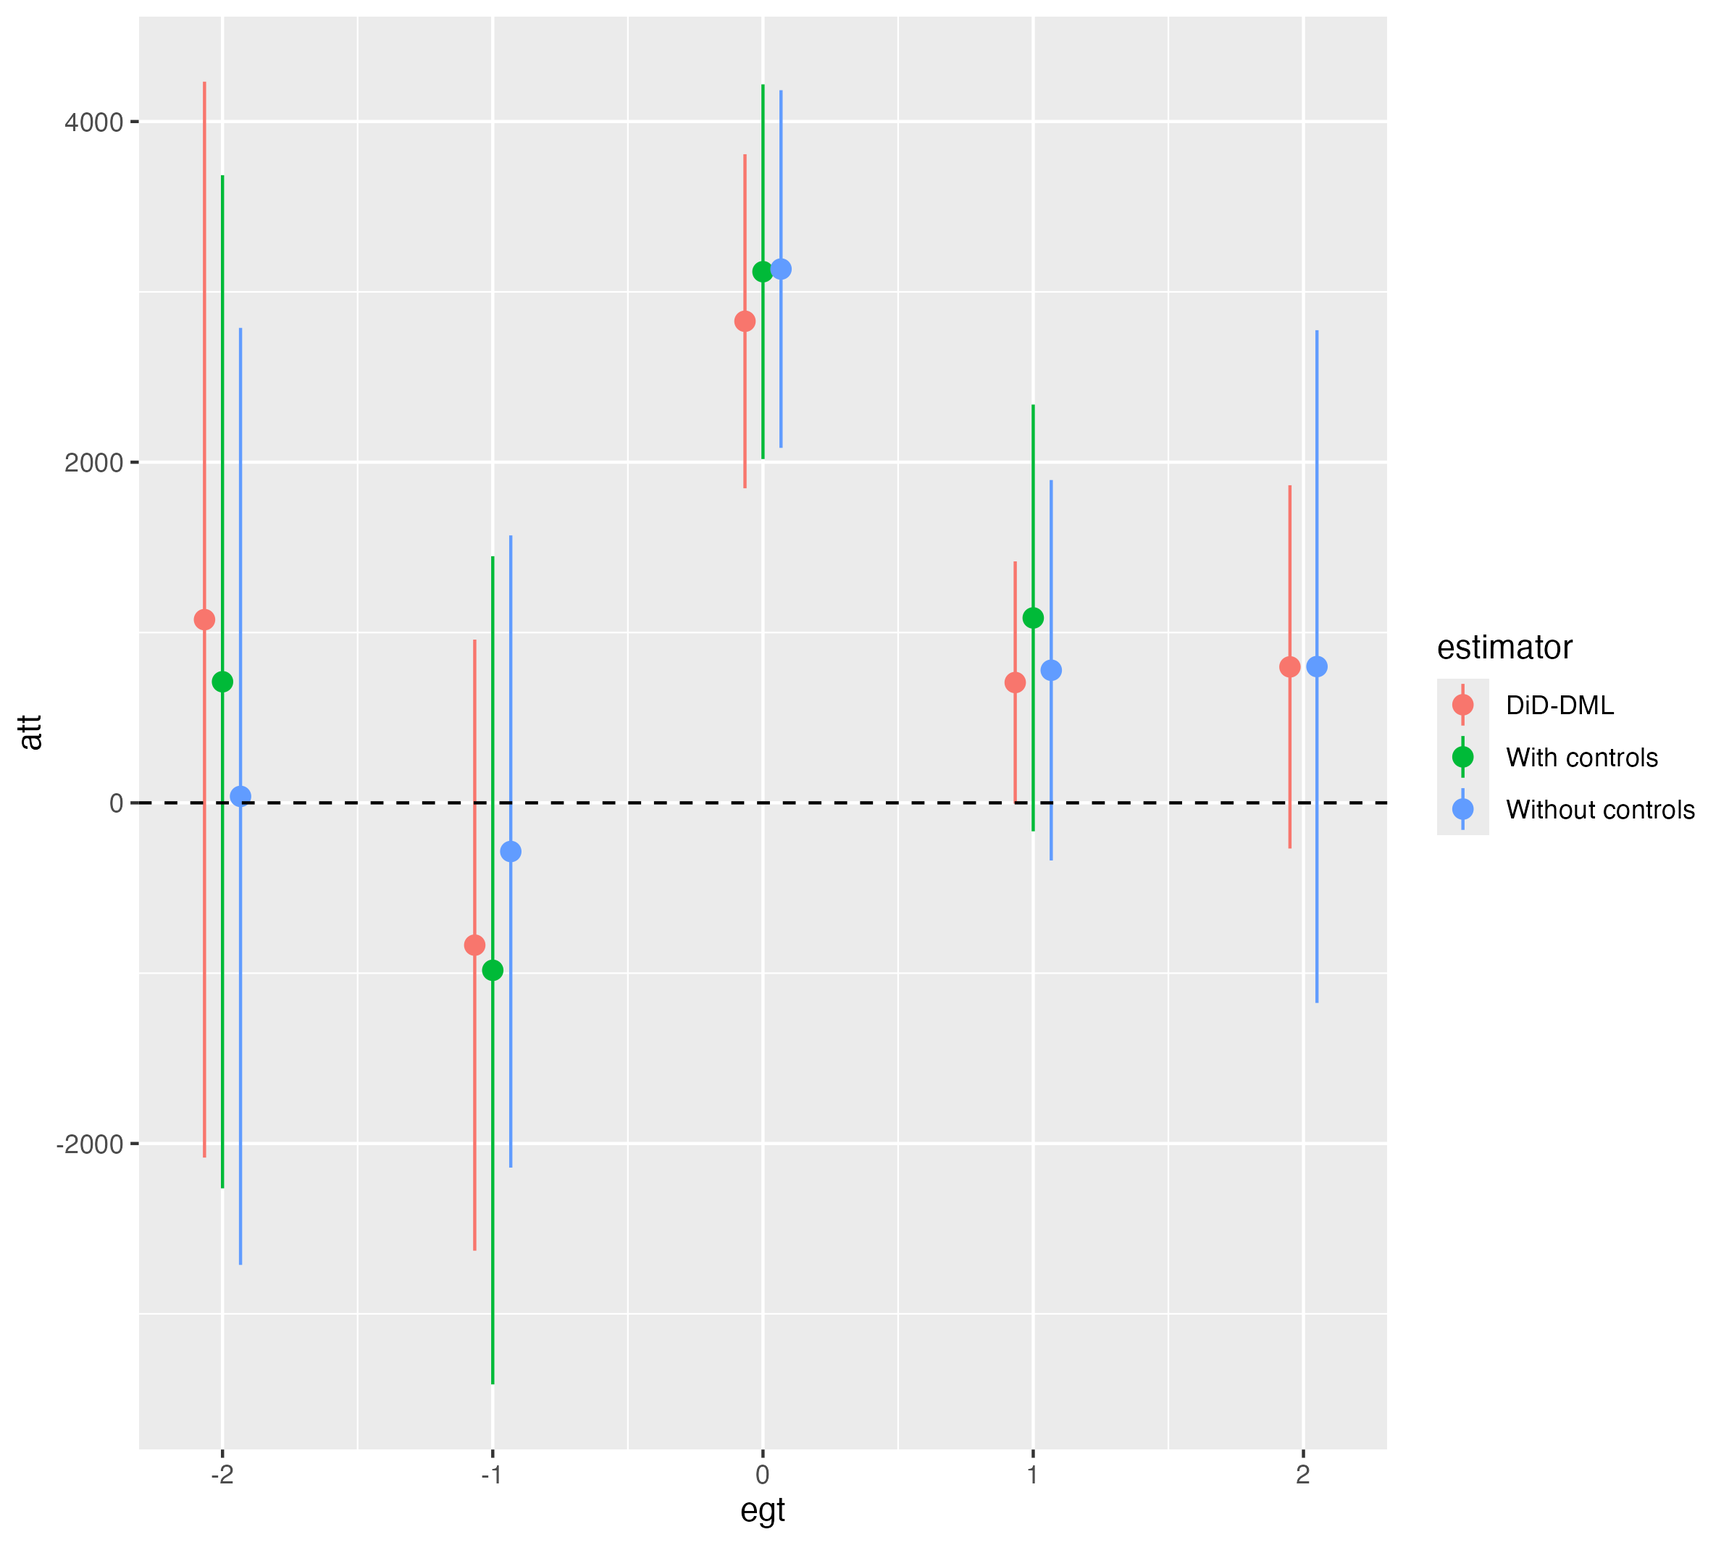
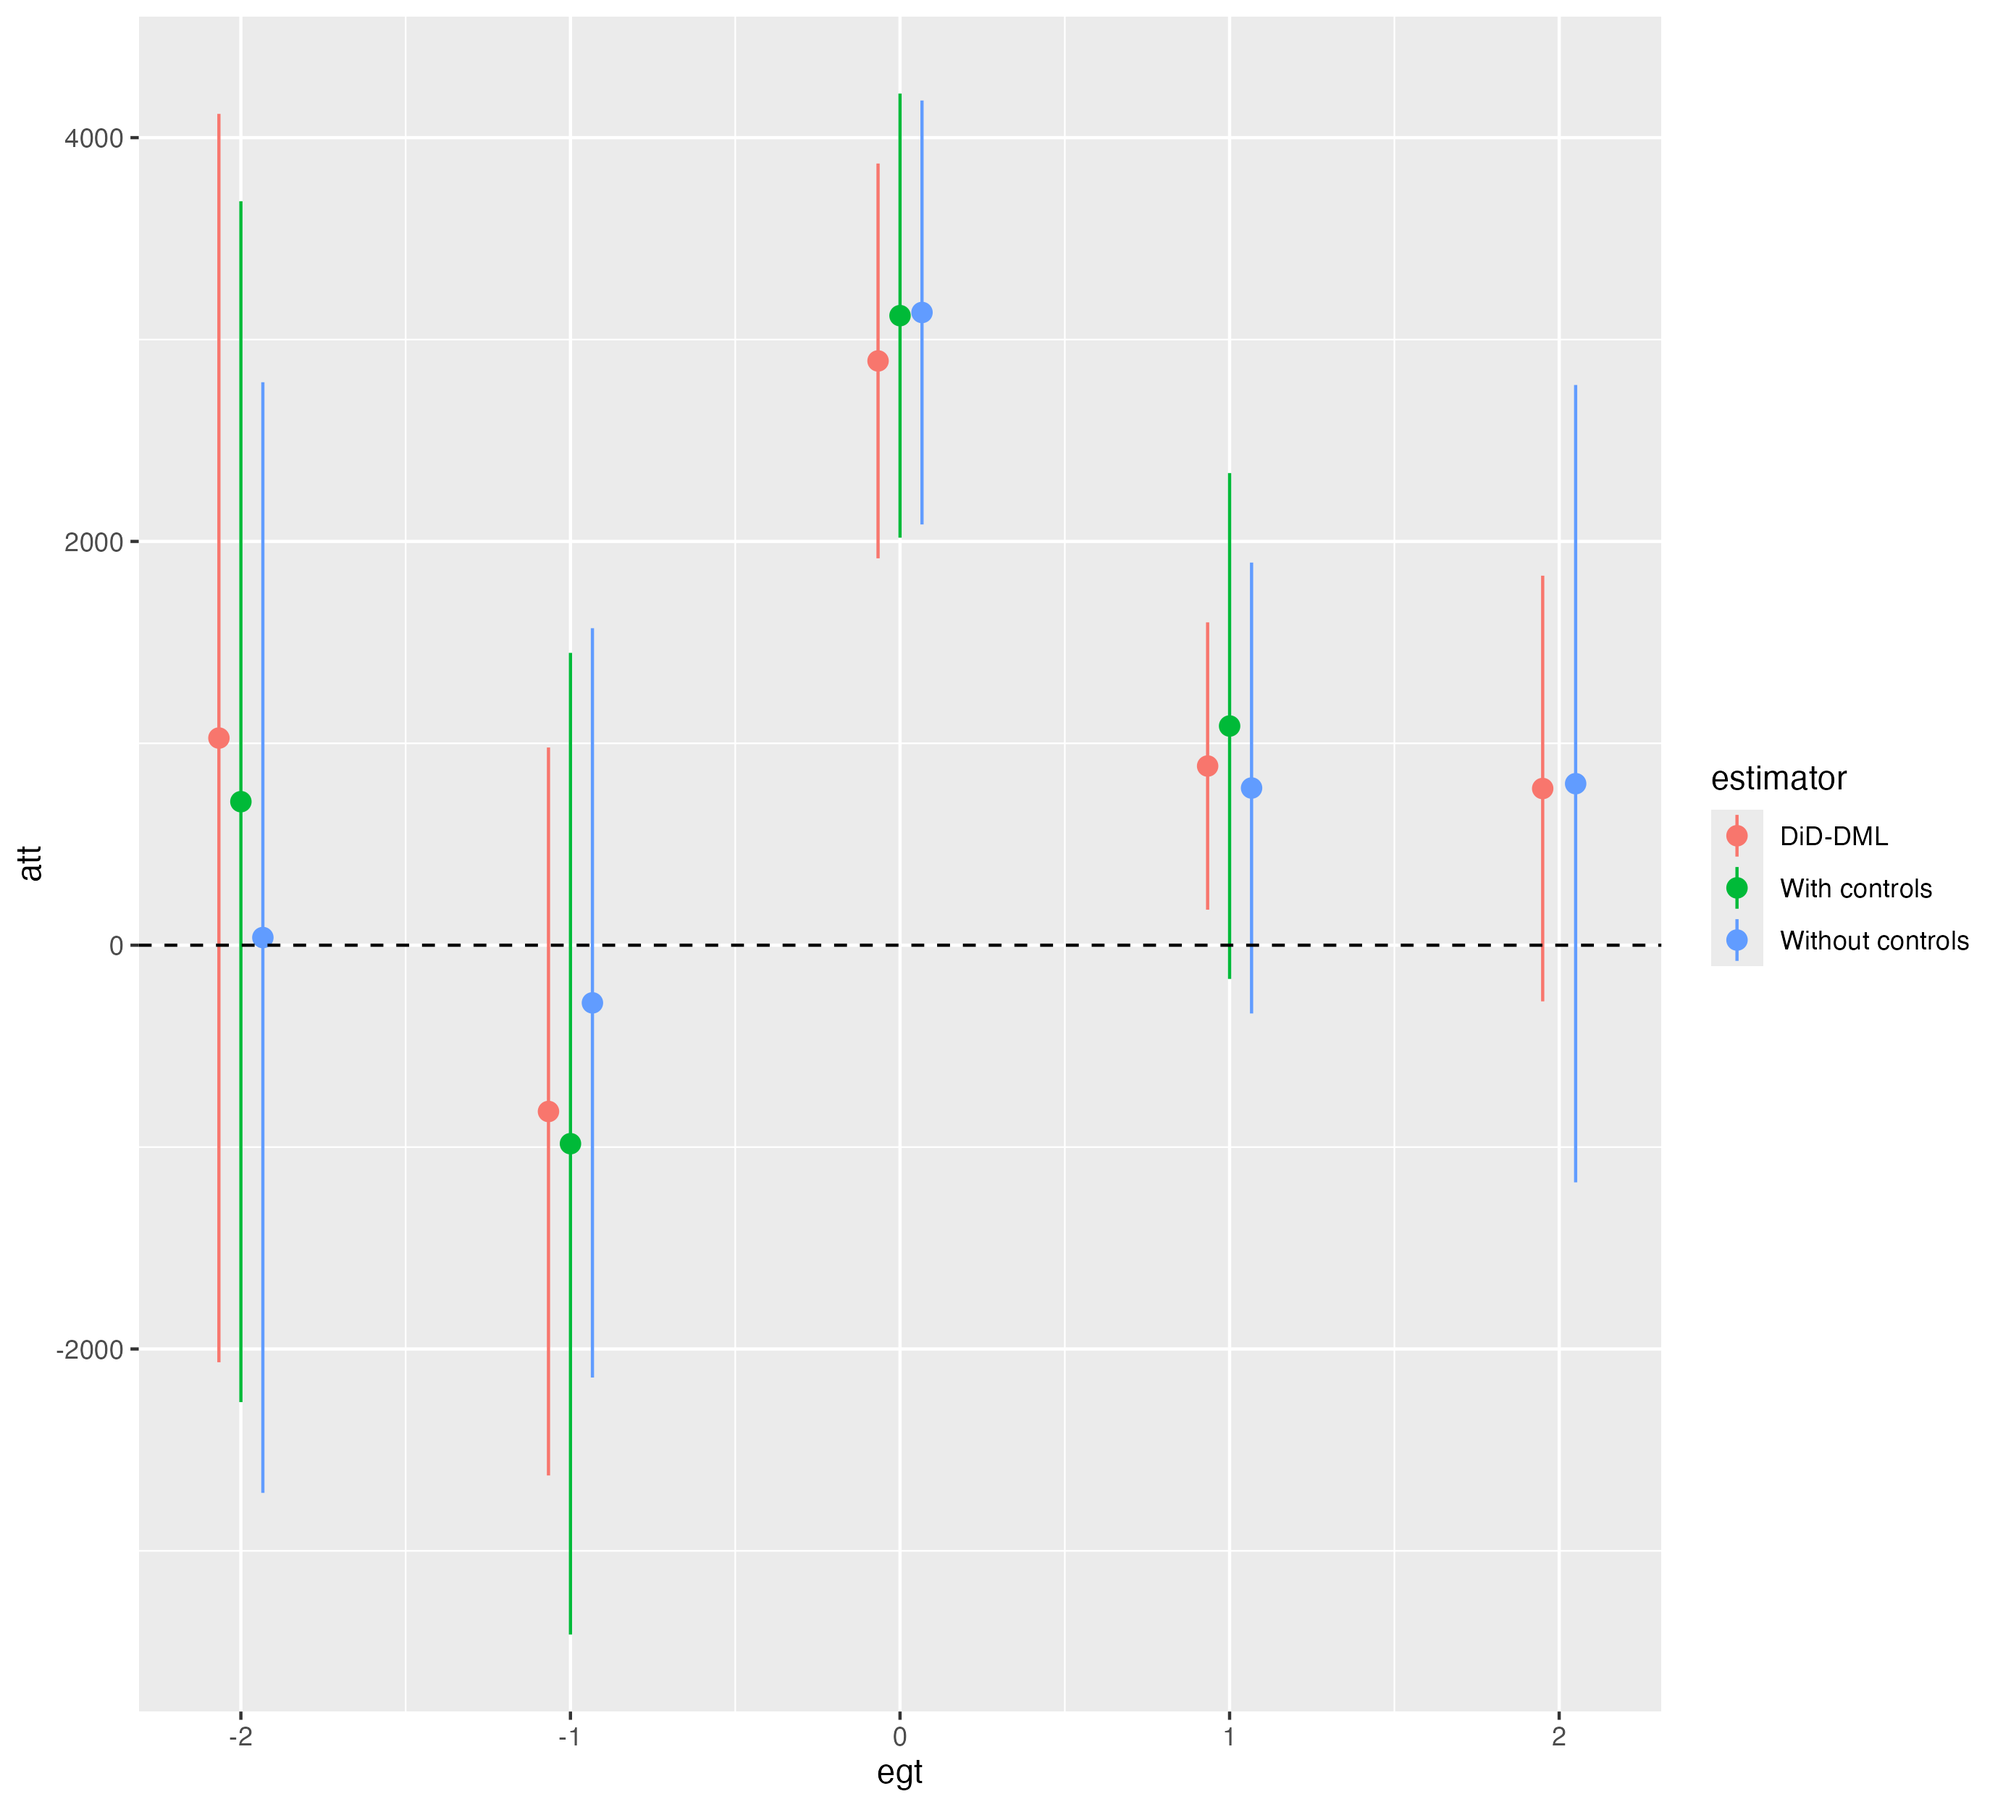
HRS update

diff --git a/examples/HRS.md b/examples/HRS.md
@@ -2,7 +2,7 @@
 layout: default
 title: Dynamic Effects on Hospitalization
 parent: Examples
-nav_order: 4
+nav_order: 33
 math: true
 description: ""
 permalink: /examples/HRS
@@ -15,7 +15,7 @@ enable_copy_code_button: true
 
 We follow [Dobkin et al (2018)](https://www.aeaweb.org/articles?id=10.1257/aer.20161038) in estimating the causal effect of hospital admissions on out-of-pocket medical spendings.[^bhnote] This application is instructive in that it illustrates how DML can be used for difference-in-difference analyses. The analysis of Dobkin et al. (2018) was reconsidered by [Sun & Abraham (2021)](https://doi.org/10.1016/j.jeconom.2020.09.006) to showcast their proposed DiD estimator. 
 
-[^bhnote]: The full data is available from the [OpenICPSR repository](https://www.openicpsr.org/openicpsr/project/116186/version/V1/view?path=/openicpsr/116186/fcr:versions/V1&type=project). We consider here the subset of the data that that was also considered by Sun Abraham.
+[^bhnote]: The full data is available from the [OpenICPSR repository](https://www.openicpsr.org/openicpsr/project/116186/version/V1/view?path=/openicpsr/116186/fcr:versions/V1&type=project). We consider here the subset of the data that that was also considered by Sun & Abraham (2021).
 
 The illustration here is a simplified version of the analysis presented in Section 5 of our review paper. For the full replication code, see our replication repository (Link to be added).
 
@@ -40,10 +40,10 @@ The variables used are:
 
 We begin by loading the data, and specifying settings for a number of nuisance function estimators that we will use below. 
 
-Note that for the DiD analyses to run in R, you will need to install a modified version of the original `did` package by Callaway & Santa'Anna.
-
 <details markdown="block">
 <summary>R code</summary>
+
+Note that for the DiD analyses to run in R, you will need to install a modified version of the original `did` package by Callaway & Santa'Anna.
 
 ```
 # Hard-coded hyperparameters
@@ -96,7 +96,10 @@ learners_DX = list(
 
 ## DiD estimation with parametric nuisance functions
 
-Next, we employ the Callway & Sant'Anna estimator of group-time average treatment effects (GT-ATT) with and without any controls. Each GT-ATT corresponds to the ATT of a hospitalization on out-of-pocket medical spending at time $g$ observed at time $t$. These GT-ATT are then aggregated to yield dynamic effects measured up to two periods before and after treatment onset. To adjust for covariates, we use doubly robust DiD estimator and assume that the nuisance functions are parameteric (an assumption that we will relax when employing DML).
+Next, we employ the Callway & Sant'Anna estimator of group-time average treatment effects (GT-ATT). Each GT-ATT corresponds to the ATT of a hospitalization occuring at time $g$ on out-of-pocket medical spending at time $g$.
+We also consider the [Sant'Anna & Zhao (2020)](https://doi.org/10.1016/j.jeconom.2020.06.003) estimator that adjust for covariates using a doubly robust scores. Unlike DML, their estimator does not employ sample-splitting and assumes that the nuisance functions follow a parameteric form.
+
+The GT-ATT estimates are then aggregated to obtain dynamic effects for up to two periods before and after the treatment onsets.  
 
 <details markdown="block">
 <summary>R code</summary>
@@ -135,25 +138,72 @@ dyn_lm <- aggte(attgt_lm, type = "dynamic", bstrap = FALSE)
 </details>
 
 <details markdown="block">
+<summary>R output</summary>
+
+```
+> attgt_0 
+
+Call:
+att_gt(yname = "oop_spend", tname = "wave", idname = "hhidpn", 
+    gname = "first_hosp", xformla = NULL, data = dat, control_group = "notyettreated", 
+    bstrap = FALSE)
+
+Reference: Callaway, Brantly and Pedro H.C. Sant'Anna.  "Difference-in-Differences with Multiple Time Periods." Journal of Econometrics, Vol. 225, No. 2, pp. 200-230, 2021. <https://doi.org/10.1016/j.jeconom.2020.12.001>, <https://arxiv.org/abs/1803.09015> 
+
+Group-Time Average Treatment Effects:
+ Group Time  ATT(g,t) Std. Error [95% Pointwise  Conf. Band]  
+     8    8 3028.6250   913.4765       1238.2440    4819.006 *
+     8    9 1247.6922   860.7461       -439.3392    2934.724  
+     8   10  800.1065  1007.5356      -1174.6271    2774.840  
+     9    8 -169.9604  1128.4012      -2381.5861    2041.665  
+     9    9 3324.3702   958.7806       1445.1947    5203.546 *
+     9   10  106.8378   650.6511      -1168.4149    1382.091  
+    10    8   37.8749  1403.3889      -2712.7167    2788.467  
+    10    9 -410.5810  1027.0575      -2423.5767    1602.415  
+    10   10 3091.5084   995.4291       1140.5031    5042.514 *
+---
+Signif. codes: `*' confidence band does not cover 0
+
+P-value for pre-test of parallel trends assumption:  0.94949
+Control Group:  Not Yet Treated,  Anticipation Periods:  0
+Estimation Method:  Doubly Robust
+```
+
+</details>
+
+<details markdown="block">
 <summary>Stata code</summary>
 
 To be added. 
 
 </details>
 
-
 ## Double Machine Learning DiD estimation
 
-Finally, we 
+We move to the DiD estimation. The code uses the same doubly robust score as [Sant'Anna & Zhao (2020)](https://doi.org/10.1016/j.jeconom.2020.06.003) to estimate the GT-ATT effects. However, DML uses cross-fitting and allows leveraging nonparametric learners.
 
 <details markdown="block">
 <summary>R code</summary>
 
 ```
-// In the G-N estimations, GDP is missing for one country.
-// For simplicity, we just drop this one country so that it is never used.
-drop if loggdp==.
-
+attgt_dml <- att_gt(yname = "oop_spend",
+                    gname = "first_hosp",
+                    idname = "hhidpn",
+                    tname = "wave",
+                    control_group = "notyettreated",
+                    xformla = ~ ragey_b+female+black+
+                      hispanic+race_other+hs_grad+some_college+collegeplus,
+                    data = dat,
+                    bstrap=FALSE,
+                    est_method = "ddml",
+                    learners=learners,
+                    learners_DX=learners_DX,
+                    ensemble_type="nnls",
+                    sample_folds=15,
+                    shortstack=TRUE,
+                    trim = 0.001,
+                    silent=FALSE)
+dyn_dml <- aggte(attgt_dml, type = "dynamic", bstrap = FALSE)
 ```
 
 </details>
@@ -170,17 +220,28 @@ To be added.
 Finally, we prepare a plot to display the results:
 
 <details markdown="block">
-<summary>R output</summary>
+<summary>R results</summary>
 
 ```
-. // Step 1: Specify the model.
-
+res <- bind_rows(
+  data.frame(egt=dyn_dml$egt,att=dyn_dml$att.egt,se=dyn_dml$se.egt,estimator="DiD-DML"),
+  data.frame(egt=dyn_lm$egt,att=dyn_lm$att.egt,se=dyn_lm$se.egt,estimator="With controls"),
+  data.frame(egt=dyn_0$egt,att=dyn_0$att.egt,se=dyn_0$se.egt,estimator="Without controls")
+) 
+res |>
+  ggplot() +
+  geom_pointrange(aes(x=egt,y=att,
+                      ymin=att-1.96*se,ymax=att+1.96*se,
+                      color=estimator),position=position_dodge(width=0.2)) +
+  geom_hline(yintercept=0,linetype="dashed") 
 ```
+
+![HRS results](https://dmlguide.github.io/assets/images/HRS.png "HRS results")
 
 </details>
 
 <details markdown="block">
-<summary>Stata output</summary>
+<summary>Stata results</summary>
 
 To be added. 
 

diff --git a/resources.md b/resources.md
@@ -1,19 +1,19 @@
 ---
 layout: default
 title: Resources
-nav_order: 10
+nav_order: 80
 math: true
 description: "A list of common target parameters."
 permalink: /resources
 ---
 
-## Textbooks treatments of DML
+## Textbooks treatments covering DML
 
 - Chernozhukov, V. & Hansen, C. & Kallus, N. & Spindler, M. & Syrgkanis, V. (2024): *Applied Causal Inference Powered by ML and AI*. [https://causalml-book.org/](https://causalml-book.org/).
 - Huber, Martin (2023). *Causal analysis: Impact evaluation and Causal Machine Learning with applications in R*. MIT Press.
 - Hernán MA, Robins JM (2020). *Causal Inference: What If*. Boca Raton: Chapman & Hall/CRC
 
-## Software implementing DML
+## Software packages implementing DML
 
 - `ddml` for Stata by Ahrens, Hansen, Schaffer, Wiemann (2024). 
     - [Package tutorials](https://statalasso.github.io/)
@@ -25,6 +25,7 @@ permalink: /resources
     - Bach, P., Chernozhukov, V., Kurz, M. S., and Spindler, M. (2022). DoubleML - An Object-Oriented Implementation of Double Machine Learning in Python. *Journal of Machine Learning Research*. 23(53): 1-6, https://www.jmlr.org/papers/v23/21-0862.html.
     - Bach, P., Chernozhukov, V., Kurz, M. S., Spindler, M. and Klaassen, S. (2024), DoubleML - An Object-Oriented Implementation of Double Machine Learning in R. *Journal of Statistical Software*. 108(3): 1-56. [https://www.jstatsoft.org/article/view/v108i03](https://www.jstatsoft.org/article/view/v108i03)
 - `EconML` for Python, see [module website](https://econml.azurewebsites.net/) 
+- `CausalELM` for Julia includes a DML program, see [module website](https://dscolby.github.io/CausalELM.jl/stable/)
 
 ## Other online tutorials
 
@@ -34,7 +35,7 @@ permalink: /resources
 
 - Victor Chernozhukov, ["Double Machine Learning for Causal and Treatment Effects"](https://www.youtube.com/watch?v=eHOjmyoPCFU).
 
-## References on Supervised Machine Learning
+## References on supervised machine learning
 
 *Textbooks:*
 - James, G, Witten, Daniela, Hastie, Trevor & Tibshirani, R (2023). An Introduction to Statistical Learning with Applications in R. [https://www.statlearning.com/](https://www.statlearning.com/) 
@@ -43,3 +44,25 @@ permalink: /resources
 *Review papers:*
 - Melissa Dell, Deep Learning for Economists, [https://arxiv.org/abs/2407.15339](https://arxiv.org/abs/2407.15339)
 - Athey, Susan, and Guido W. Imbens. 2019. Machine Learning Methods That Economists Should Know About. *Annual Review of Economics*. 11(Volume 11, 2019): 685–725. [https://doi.org/10.1146/annurev-economics-080217-053433](https://doi.org/10.1146/annurev-economics-080217-053433)
+
+## Other references
+
+Ahrens, A., Hansen, C.B., Schaffer, M.E. and Wiemann, T. (2025), Model Averaging and Double Machine Learning. *Journal of Applied Econometrics*. https://doi.org/10.1002/jae.3103
+
+Ahrens A, Hansen C B, Schaffer M E, Wiemann T (2024). ddml: Double/debiased machine learning in Stata. *Stata Journal*. 24(1): 3-45. [https://doi.org/10.1177/1536867X2412336](https://doi.org/10.1177/1536867X2412336)
+
+Bach, P., Chernozhukov, V., Kurz, M. S., and Spindler, M. (2022). DoubleML - An Object-Oriented Implementation of Double Machine Learning in Python. *Journal of Machine Learning Research*. 23(53): 1-6, https://www.jmlr.org/papers/v23/21-0862.html.
+
+Bach, P., Chernozhukov, V., Kurz, M. S., Spindler, M. and Klaassen, S. (2024), DoubleML - An Object-Oriented Implementation of Double Machine Learning in R. *Journal of Statistical Software*. 108(3): 1-56. [https://www.jstatsoft.org/article/view/v108i03](https://www.jstatsoft.org/article/view/v108i03)
+
+Callaway, B., & Sant’Anna, P. H. (2021). Difference-in-differences with multiple time periods. *Journal of econometrics*, 225(2), 200-230. [https://doi.org/10.1016/j.jeconom.2020.12.001](https://doi.org/10.1016/j.jeconom.2020.12.001)
+
+Dobkin, Carlos, Amy Finkelstein, Raymond Kluender, and Matthew J. Notowidigdo. 2018. The Economic Consequences of Hospital Admissions. *American Economic Review* 108 (2): 308–52. 
+
+Paola Giuliano, Nathan Nunn, Understanding Cultural Persistence and Change, *The Review of Economic Studies*, Volume 88, Issue 4, July 2021, Pages 1541–1581, https://doi.org/10.1093/restud/rdaa074
+
+Poterba, J. M., Venti, S. F., & Wise, D. A. (1995). Do 401 (k) contributions crowd out other personal saving?. *Journal of Public Economics*, 58(1), 1-32.
+
+Sant’Anna, P. H., & Zhao, J. (2020). Doubly robust difference-in-differences estimators. *Journal of econometrics*, 219(1), 101-122.
+
+Sun, L., & Abraham, S. (2021). Estimating dynamic treatment effects in event studies with heterogeneous treatment effects. *Journal of econometrics*, 225(2), 175-199.

diff --git a/about.md b/about.md
@@ -1,7 +1,7 @@
 ---
 layout: default
 title: About
-nav_order: 10
+nav_order: 90
 math: true
 description: "About"
 permalink: /about
@@ -9,20 +9,22 @@ permalink: /about
 
 # About
 
-[Achim Ahrens](https://achimahrens.de/)
+[Achim Ahrens](https://achimahrens.de/), 
 *ETH Zurich*
 
-[Victor Chernozhukov](https://www.victorchernozhukov.com/]) 
+[Victor Chernozhukov](https://www.victorchernozhukov.com/]), 
 *Massachusetts Institute of Technology*
 
-[Christian Hansen](https://www.chicagobooth.edu/faculty/directory/h/christian-b-hansen)
+[Christian Hansen](https://www.chicagobooth.edu/faculty/directory/h/christian-b-hansen), 
 *University of Chicago*
 
-[Damian Kozbur](https://www.econ.uzh.ch/en/people/faculty/kozbur.html)
+[Damian Kozbur](https://www.econ.uzh.ch/en/people/faculty/kozbur.html), 
 *University of Zurich*
 
-[Mark Schaffer](https://www.hw.ac.uk/ebs/people/faculty/mark-schaffer.htm)
+[Mark Schaffer](https://www.hw.ac.uk/ebs/people/faculty/mark-schaffer.htm), 
 *Heriot-Watt University*
 
-[Thomas Wiemann](https://thomaswiemann.com/)
+[Thomas Wiemann](https://thomaswiemann.com/), 
 *University of Chicago*
+
+*Last edited: March 2025*

diff --git a/examples/401k.md b/examples/401k.md
@@ -2,7 +2,7 @@
 layout: default
 title: The Effect of 401k Eligibility on Financial Wealth
 parent: Examples
-nav_order: 4
+nav_order: 31
 math: true
 description: ""
 permalink: /examples/401k

diff --git a/examples/GN.md b/examples/GN.md
@@ -2,7 +2,7 @@
 layout: default
 title: Understanding Cultural Persistence and Change 
 parent: Examples
-nav_order: 4
+nav_order: 32
 math: true
 description: ""
 permalink: /examples/GN
